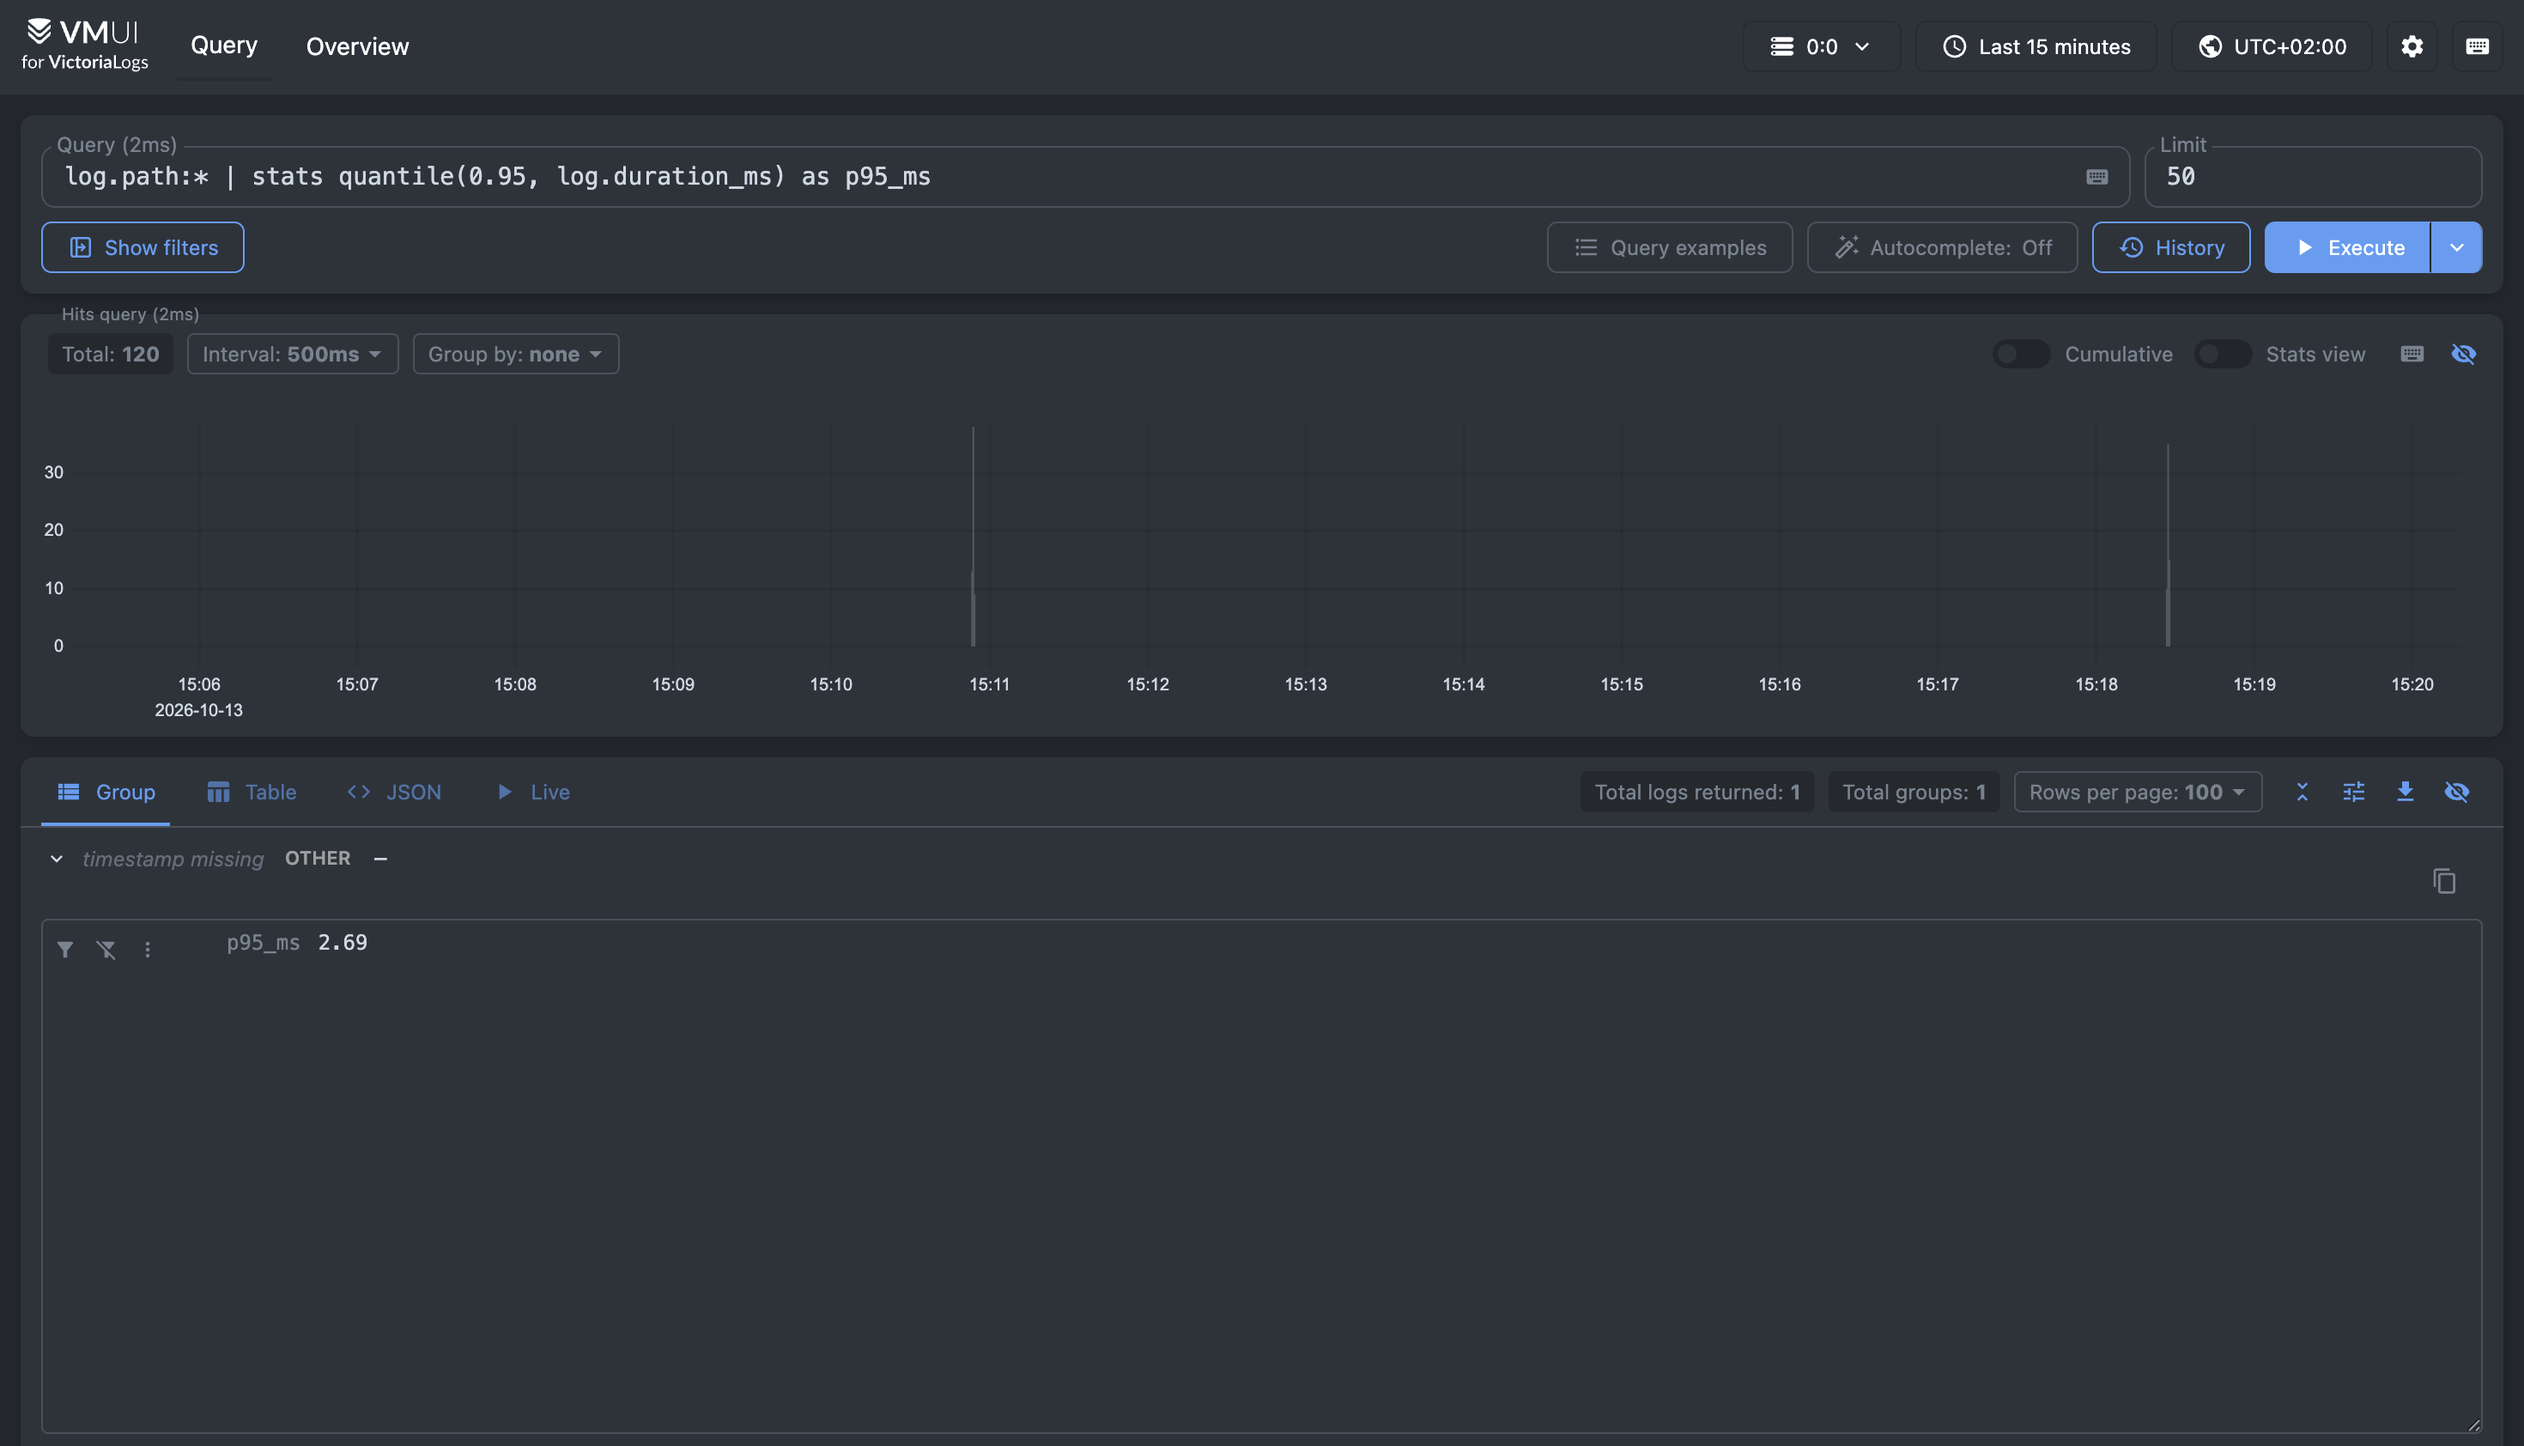
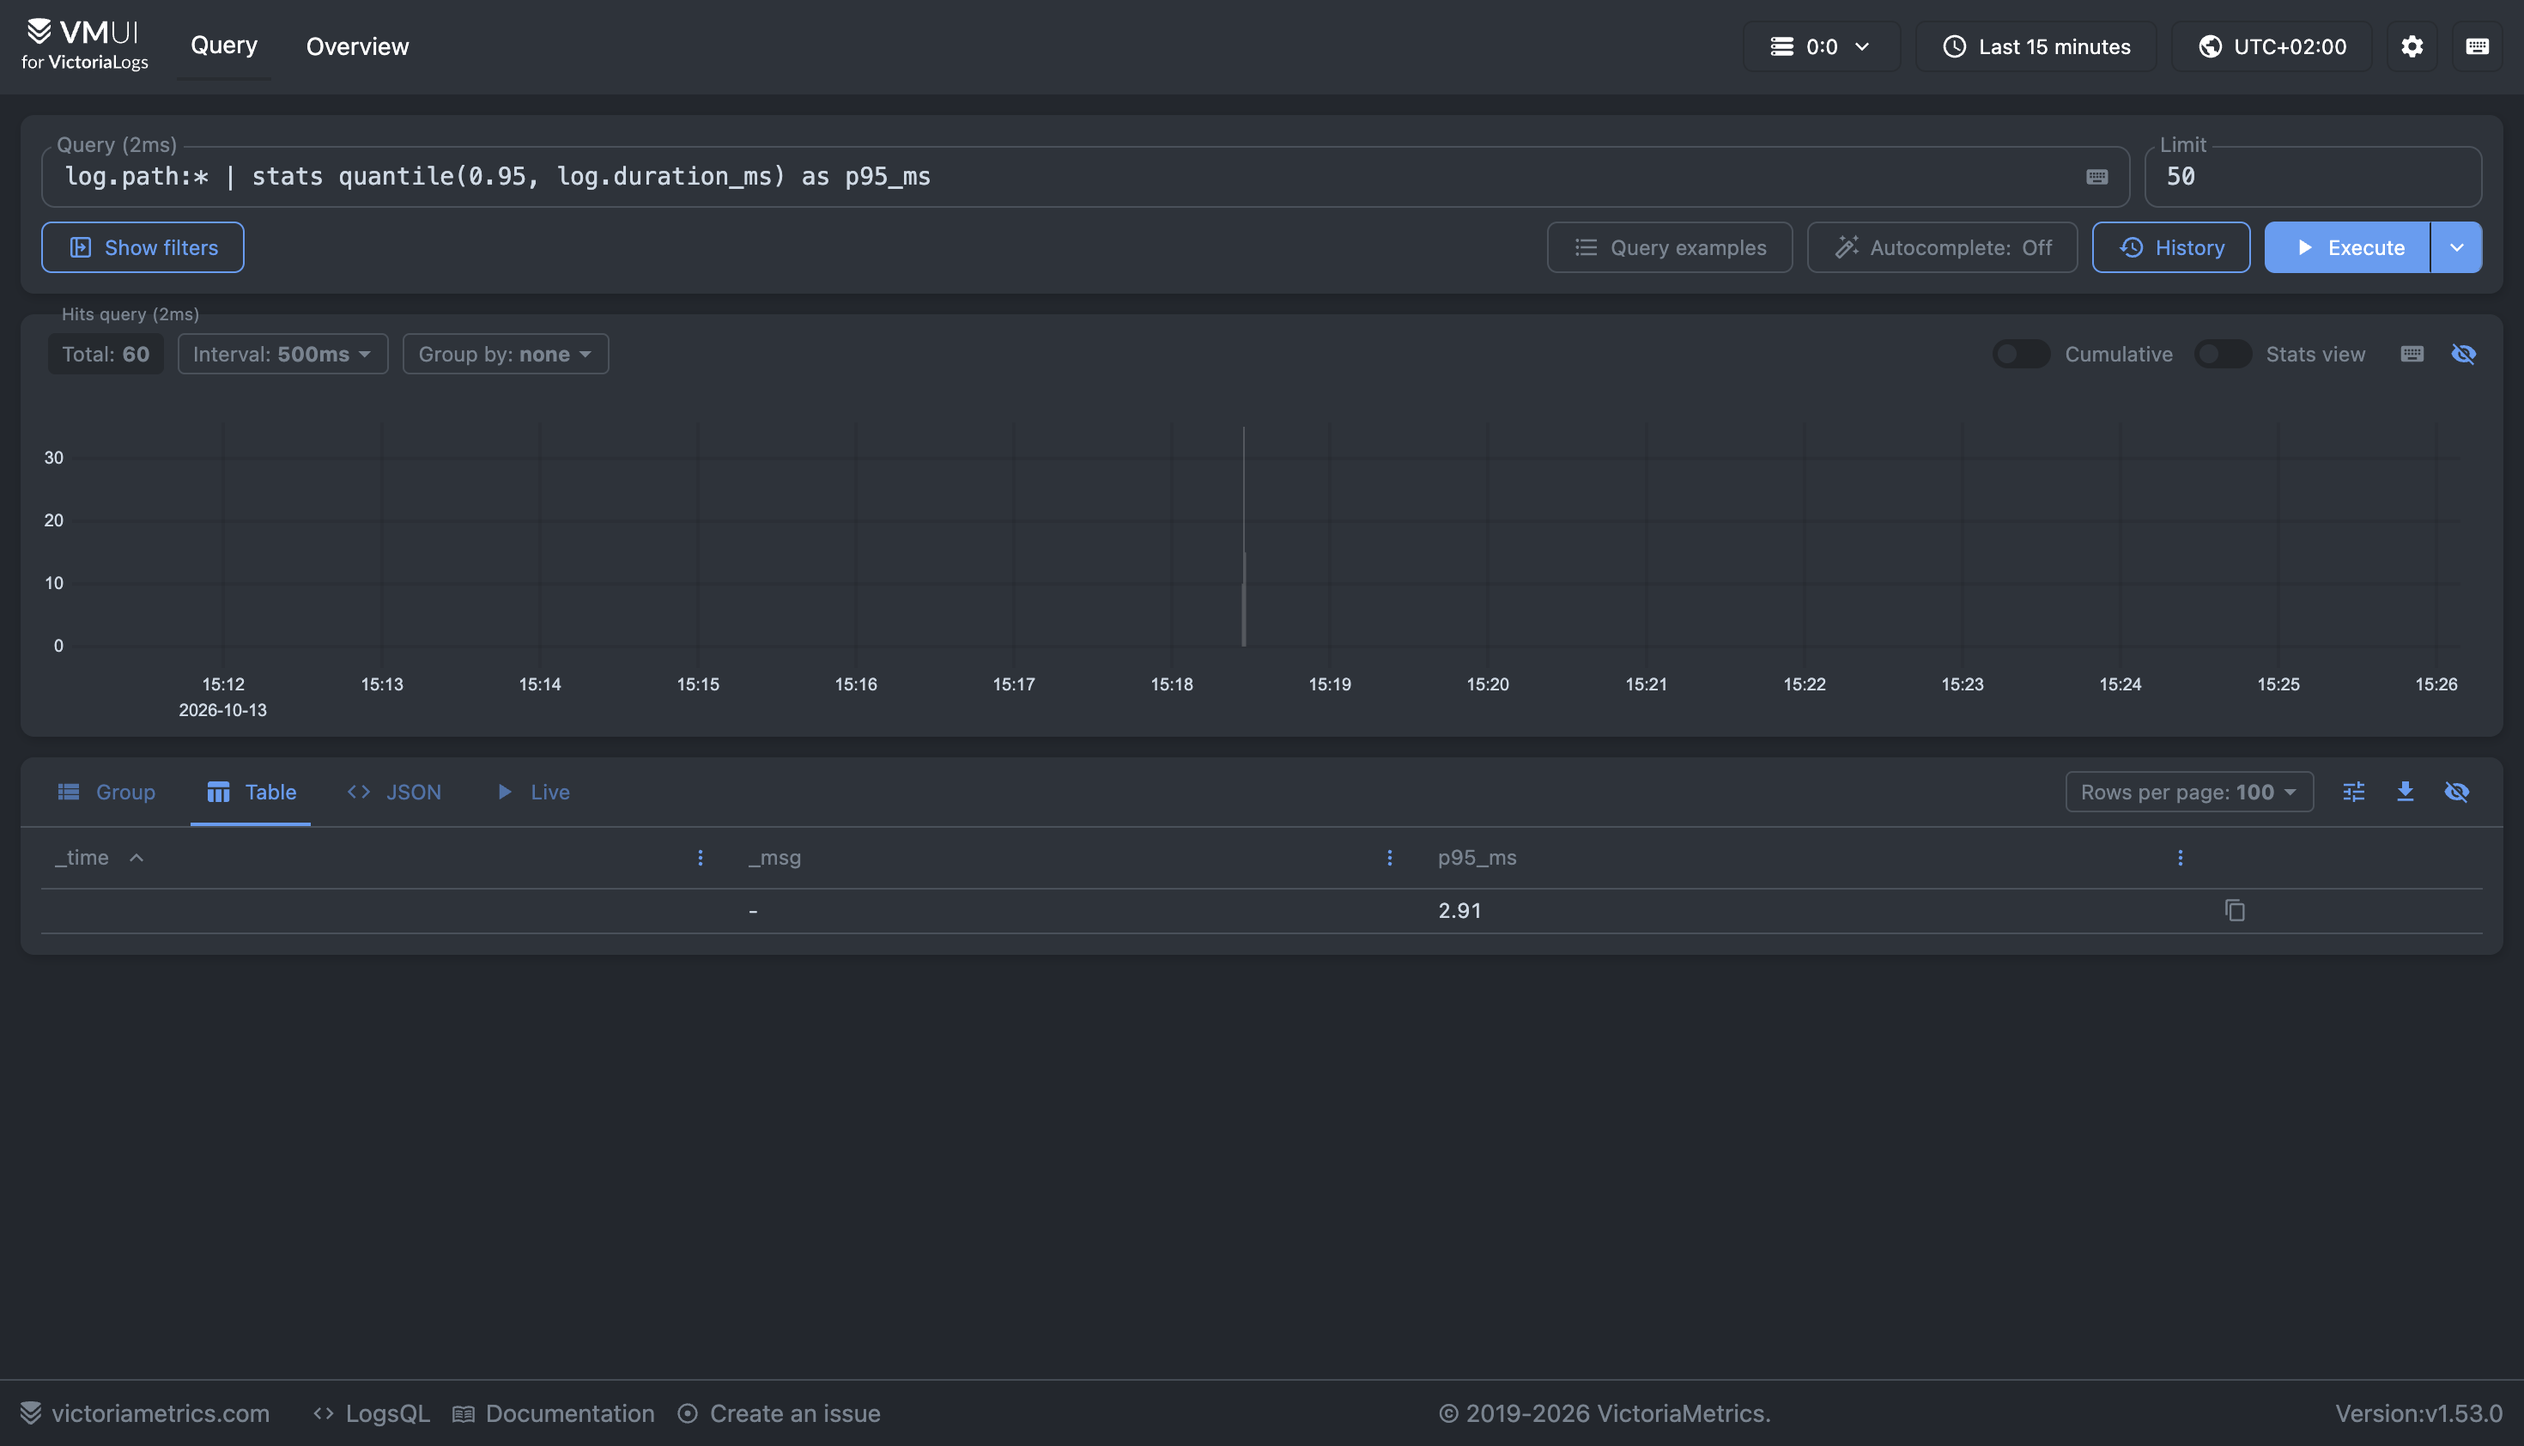
Отчёт по логированию: скриншоты (в), (г) в табличном виде
Claude-Session: https://claude.ai/code/session_01VVfC7jT5y4R2idBXbZXcmS

diff --git a/logging/Отчёт.md b/logging/Отчёт.md
@@ -78,7 +78,7 @@ log.path:* | stats by (log.level) count() as records
 
 ![в](screenshots/c.png)
 
-Число HTTP-запросов по уровням логирования. Фильтр `log.path:*` оставляет только записи о запросах (у них есть поле `path`). Показывает соотношение успешных запросов и ошибок за интервал.
+Число HTTP-запросов по уровням логирования: 20 записей `info` (ответы 200) и 40 записей `warning` (ответы 404 и 401). Фильтр `log.path:*` оставляет только записи о запросах (у них есть поле `path`), события `login failed` в подсчёт не входят. Показывает соотношение успешных запросов и ошибок за интервал.
 
 ### (г) Агрегация: 95-й перцентиль времени ответа
 
@@ -88,4 +88,4 @@ log.path:* | stats quantile(0.95, log.duration_ms) as p95_ms
 
 ![г](screenshots/d.png)
 
-95% запросов за интервал обработаны быстрее 2.69 мс. Запрос показывает задержку бэкенда без учёта редких выбросов.
+95% запросов за интервал обработаны быстрее 2.91 мс. Запрос показывает задержку бэкенда без учёта редких выбросов.
